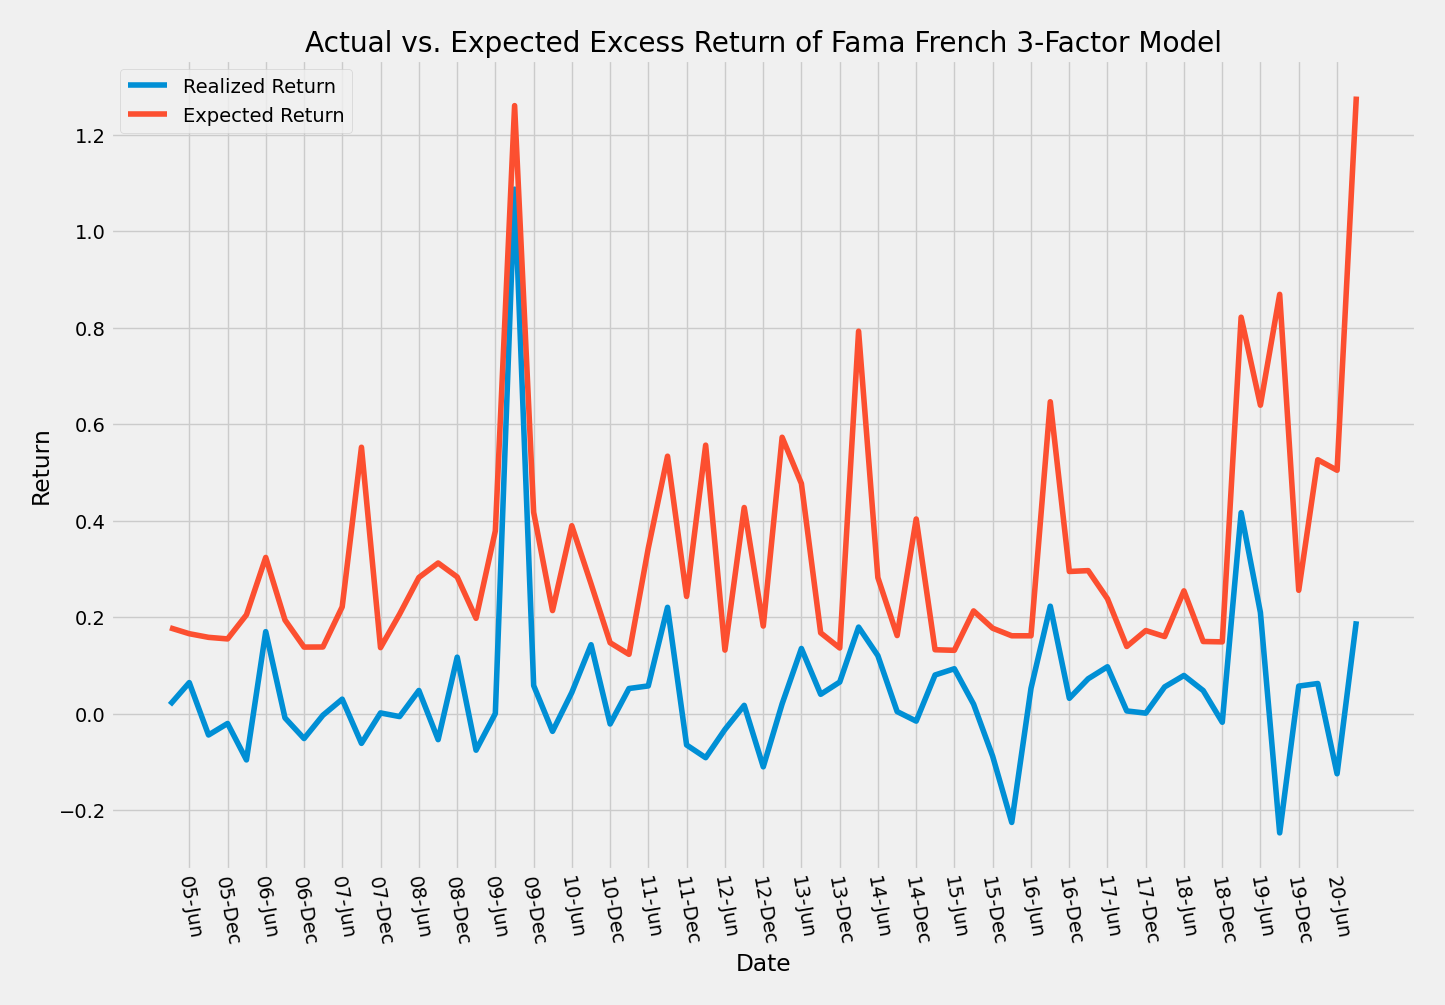
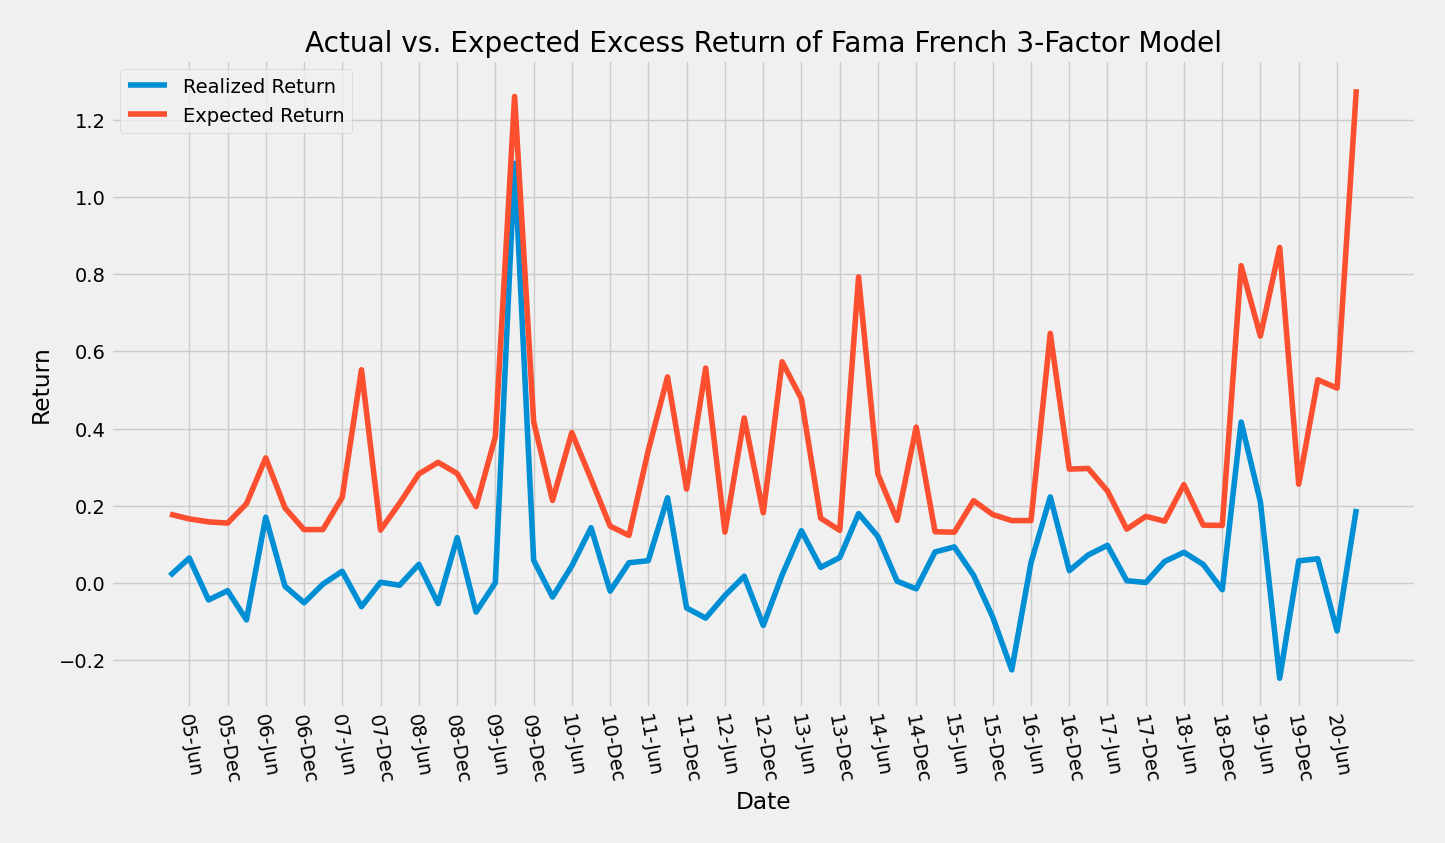
Update image sizes

diff --git a/src/visualization/base_alternative_returns.py b/src/visualization/base_alternative_returns.py
@@ -12,7 +12,7 @@ returns_data = pd.read_table(DATA_PATH.joinpath('performance_data.txt'), parse_d
 mod_returns_data = pd.read_table(DATA_PATH.joinpath('modified_alpha_performance_data.txt'),
                                  parse_dates={'date': ['year', 'month']})
 
-fig = plt.figure(figsize=(15,10))
+fig = plt.figure(figsize=(15, 8))
 plt.plot(returns_data.date, returns_data.actual_ret, label='Base')
 plt.plot(mod_returns_data.date, mod_returns_data.actual_ret, label='Alternative')
 plt.title('Base vs. Alternative Model Excess Returns')

diff --git a/src/visualization/actual_expected_returns.py b/src/visualization/actual_expected_returns.py
@@ -10,7 +10,7 @@ DATA_PATH = Path(__file__).parent.parent.parent.joinpath('data', 'processed', 'v
 
 returns_data = pd.read_table(DATA_PATH.joinpath('performance_data.txt'), parse_dates={'date': ['year', 'month']})
 
-fig = plt.figure(figsize=(15,10))
+fig = plt.figure(figsize=(15, 8))
 plt.plot(returns_data.date, returns_data.actual_ret, label='Realized Return')
 plt.plot(returns_data.date, returns_data.expected_ret, label='Expected Return')
 plt.title('Actual vs. Expected Excess Return of Fama French 3-Factor Model')
